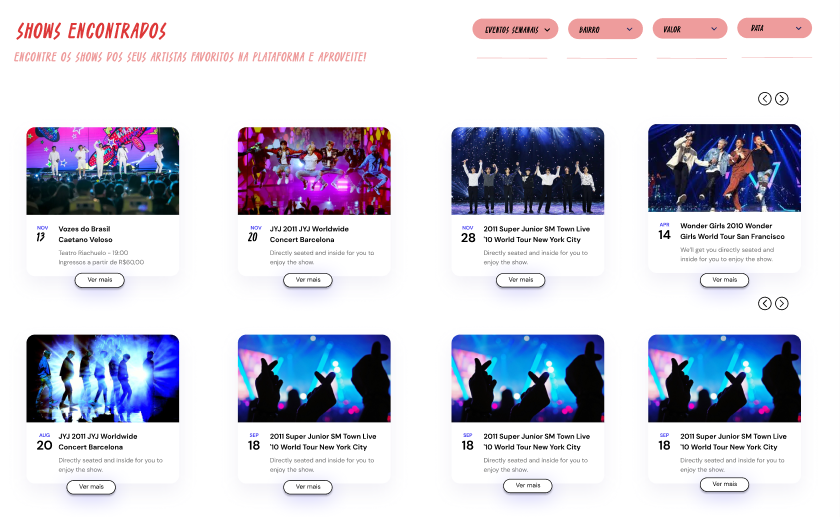
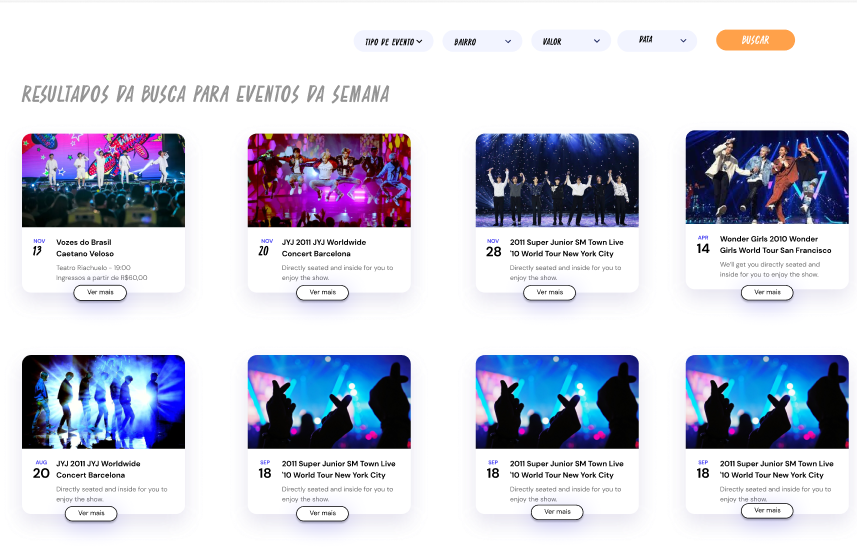
4 principais cdus atualizados

diff --git a/doc/cdu/cdu-002-Filtrar-Eventos/Filtrar-eventos.md b/doc/cdu/cdu-002-Filtrar-Eventos/Filtrar-eventos.md
@@ -2,14 +2,14 @@
 
 - **Ator principal**: Usuário, público geral, produtora
 - **Atores secundários**: ...	 
-- **Resumo**: *O sistema precisa ser capaz de filtrar os eventos a partir de opções pré-estabelecidas nos critérios de valor, tipo de evento(categoria), bairro e data. O sistema deve oferecer as seguintes opções pré determinadas dentro dos critérios, valor: Gratuito, até 10 reais, até 30 reais, até 50 reais e acima de 50. Data: Hoje, essa semana, próximo mês. Gênero: Shows, gastronomia, teatro, festas, exposições. Além disso, deve oferecer a possibilidade de pesquisar por texto eventos usando sua descrição, local e/ou nome.* 
+- **Resumo**: *O sistema precisa ser capaz de filtrar os eventos a partir de opções pré-estabelecidas nos critérios de valor, tipo de evento(categoria), bairro e data. O sistema deve oferecer as seguintes opções pré determinadas dentro dos critérios, valor: Gratuito, até 10 reais, até 30 reais, até 50 reais e acima de 50. Data: Essa semana. Gênero: Shows, gastronomia, teatro, festas, exposições. Além disso, deve oferecer a possibilidade de pesquisar por texto eventos usando sua descrição, local e/ou nome.* 
 - **Pré-condição**: Sem pré-condições
 - **Pós-Condição**: Os eventos filtrados serão listados para o usuário.
 
 ## Fluxo Principal
 | Ações do ator | Ações do sistema |
 | :-----------------: | :-----------------: | 
-| 1 - Usuário escolhe a opção de filtrar os eventos por gênero, valor ou data. | 2 -  Sistema abre página de resultados com o tipo de evento escolhido e oferece a possibilidade de filtrar também com os dois outros critérios. | 
+| 1 - Usuário escolhe a opção de filtrar os eventos da semana, por gênero, valor ou data. | 2 -  Sistema abre página de resultados com o tipo de evento escolhido e oferece a possibilidade de filtrar também com os três outros critérios. | 
 | 3 - Usuário escolhe adicionar ou não mais critérios na filtragem e confirma a opção caso decida adicionar. | 4 - Sistema retorna os resultados pertinentes. |
 
 ## Fluxo Alternativo I 
@@ -22,5 +22,8 @@
 | Ações do ator | Ações do sistema |
 | :-----------------: | :-----------------: | 
 | 1.2 - Ator escreve palavras chaves relacionadas com o que procura. |2.2 - Sistema procura coincidências das palavras digitadas com nome, local, descrição e gênero dos eventos cadastrados na plataforma e retorna uma lista dos eventos que apresentam coincidências, ordenando pelo número de coincidências que não devem considerar letras maiúsculas como diferente de minúsculas e nem os acentos. Sistema também oferece a possibilidade de filtrar a busca por gênero, valor ou data. Fluxo retorna para o fluxo principal no passo 3. |
+
+## Protótipo 
+![Filtra Eventos](Filtrar-Eventos.png)
 
 

diff --git a/doc/cdu/cdu-003-Cadastro-de-Evento/Cadastrar-Evento.md b/doc/cdu/cdu-003-Cadastro-de-Evento/Cadastrar-Evento.md
@@ -18,3 +18,7 @@
 | 3 - Usuário preenche as informações com os dados que são pedidos previamente no formulário e clica em publicar evento.| 4a.1 Sistema verifica se todos os campos foram preenchidos e ao verificar campos vazios que o usuário deixou, retorna para o usuário o campo para ser preenchido devidamente e caso de uso segue para passo 4.|  
 |4b.1 Usuário preenche campos pendentes do formulário. | 4. Sistema finaliza caso de uso como no item 4 do Fluxo Principal.
 
+## Protótipo
+
+![Cadastro de Eventos](Cadastro-Eventos1.png)
+![Cadastro de Eventos](Cadastro-Eventos2.png)

diff --git a/doc/cdu/cdu-004-Meus-Eventos-Cadastrados/Meus-Eventos-Cadastrados.md b/doc/cdu/cdu-004-Meus-Eventos-Cadastrados/Meus-Eventos-Cadastrados.md
@@ -23,3 +23,7 @@
 | :-----------------: | :-----------------: | 
 | 1 - Usuário sem nenhum evento cadastrado acessa a opção que lista seus eventos | 2 - Sistema redireciona para a tela de seus eventos cadastrados com a mensagem que diz que não existe nenhum evento cadastrado |
 | 3 - O Usuário cria seu evento  | 4 - O Sistema recupera e exibe o evento que o usuário cadastrou  |
+
+## Protótipo
+
+![Meus eventos cadastrados](Meus-eventos-cadastrados.png)

diff --git a/doc/cdu/cdu-001-Listar-Evento/Listar-eventos.md b/doc/cdu/cdu-001-Listar-Evento/Listar-eventos.md
@@ -14,4 +14,7 @@
 ## Fluxo Alternativo
 | Ações do ator | Ações do sistema |
 | :-----------------: | :-----------------: | 
-| 1 - Usuário faz a busca de um evento que não contém resultados . | 2 -  Sistema exibe uma mensagem dizendo que a busca não foi atendida.
+| 1 - Usuário faz a busca de um evento que não existe. | 2 -  Sistema exibe uma mensagem dizendo que a busca não foi atendida.
+
+## Protótipo 
+![Lista Eventos](Listar-Eventos.png)
